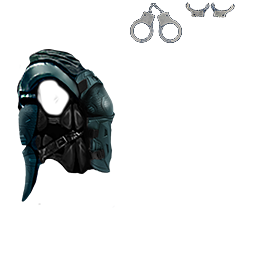
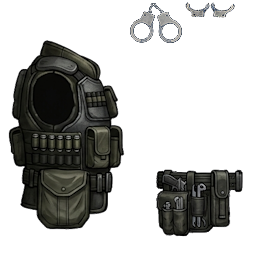
111.1 1. Changed oxygen candle check hint from less than 200 to less than 100 2. Doubled oxygen candle consumption 3. Havled control rod consumption 4. Updated repaire updatepostfix to fix electric check inconsistance between repair and during the repair. 5. Updated trashcan to allow stealing 6. Cha

Changed region(s): [[0.0312, 0.1562, 0.5, 0.9062], [0.5938, 0.6562, 0.9688, 0.9375]]

diff --git a/CSharp/Shared/Repairable_harmo.cs b/CSharp/Shared/Repairable_harmo.cs
@@ -130,18 +130,37 @@ namespace BarotraumaDieHard
         [HarmonyPostfix]
         public static void UpdatePostfix(float deltaTime, Camera cam, Repairable __instance)
         {
-            if (__instance.CurrentFixer == null) return;
-            if (__instance.item.GetComponent<Powered>() is Powered powered) 
+            // 如果当前没有人正在维修，或者设备根本没有通电危险，直接跳过
+            if (__instance.CurrentFixer == null || !IsDeviceElectrified(__instance)) return;
+
+            Character fixer = __instance.CurrentFixer;
+
+            // 1. 施加惩罚效果（这里由于是在 Update 触发，原版一般在服务器执行）
+            __instance.ApplyStatusEffects(ActionType.OnFailure, 1.0f, fixer);
+
+            // 2. 关键：如果是服务器，必须创建网络事件同步这个惩罚特效，否则联机会出 Bug
+            if (GameMain.NetworkMember is { IsServer: true } && __instance.statusEffectLists != null && __instance.statusEffectLists.ContainsKey(ActionType.OnFailure))
             {
-                if (powered == null || powered.powerIn == null || powered.powerIn.Grid == null) // Check for devices that don't have powered component.
+                GameMain.NetworkMember.CreateEntityEvent(__instance.Item, new Item.ApplyStatusEffectEventData(ActionType.OnFailure, __instance, fixer));
+            }
+
+            
+
+            #if CLIENT
+            // 4. 客户端提示
+            BarotraumaDieHard.CustomHintManager.DisplayHint("electricalrepair".ToIdentifier());
+            #endif
+
+            // 5. 如果是 Bot 正在修理，顺便清除其 AI 目标（防止 Bot 傻傻地又秒点上去修理）
+            if (fixer.AIController is HumanAIController humanAI)
+            {
+                // 触发 Bot 说话
+                fixer.Speak(TextManager.Get("dialog.bot.safetywarning").Value, null, 0.0f, "safetywarning".ToIdentifier(), 10.0f);
+                
+                var currentObjective = humanAI.ObjectiveManager.GetCurrentObjective();
+                if (currentObjective != null)
                 {
-                    return;
-                }
-                else if (powered.powerIn.Grid.Power > 1f)
-                {
-                    
-                    __instance.ApplyStatusEffects(ActionType.OnFailure, 1.0f, __instance.CurrentFixer);
-                    return;
+                    currentObjective.Abandon = true; 
                 }
             }
         }

diff --git a/CSharp/Shared/Character_harmo.cs b/CSharp/Shared/Character_harmo.cs
@@ -26,6 +26,7 @@ using Barotrauma;
 using HarmonyLib;
 using System.Globalization;
 using System.Reflection;
+//using System.Numerics;
 
 
 namespace BarotraumaDieHard
@@ -125,7 +126,30 @@ namespace BarotraumaDieHard
 			}
 			else if (currentTemp > 323.15f)
 			{
-				__instance.CharacterHealth.ApplyAffliction(__instance.AnimController.MainLimb, AfflictionPrefab.Prefabs["burn"].Instantiate((currentTemp - 318.15f) * accumulatedTime / 4f));
+				// 1. 计算原始伤害强度
+				float rawDamage = (currentTemp - 318.15f) * accumulatedTime / 4f;
+				
+				// 2. 创建一个攻击数据对象 (AttackContext 可以根据你的 Hook 来源选择，比如 Environment)
+				// 这里使用原生的 Attack 构造函数，传入烧伤的 Prefab 关联的数据
+				var burnPrefab = AfflictionPrefab.Prefabs["burn"];
+				
+				// 创建一个临时的攻击信息对象
+				Attack attack = new Attack(
+					damage: 0, 
+					bleedingDamage: 0, 
+					burnDamage: rawDamage, // 确保触发烧伤类型的抗性
+					structureDamage: 0, 
+					itemDamage: 0);
+
+				// 3. 调用 Character 的 ApplyAttack 方法
+				// 这个方法内部会自动进行护甲（Wearable）减伤计算，并最终应用到 CharacterHealth
+				__instance.ApplyAttack(attacker: null,
+					worldPosition: __instance.WorldPosition,
+					deltaTime: deltaTime,
+					impulseDirection: Vector2.Zero,
+					attack: attack,
+					targetLimb: __instance.AnimController.MainLimb
+				);
 			}
 			else if (currentTemp > 293.15f)
 			{

diff --git a/CSharp/Shared/Reactor_harmo.cs b/CSharp/Shared/Reactor_harmo.cs
@@ -25,6 +25,9 @@ namespace BarotraumaDieHard
         public static Dictionary<int, ReactorCacheData> ReactorDataCache = new Dictionary<int, ReactorCacheData>();
         private static bool inEditor;
         private const float UPDATE_INTERVAL = 0.2f;  // 每秒更新5次
+        // === 新增配置参数 ===
+        // 控制裂变率没有控制棒时的每秒上涨速度。例如 15f 意味着从 0 上涨到 100 需要大约 6.6 秒。
+        private const float FISSION_RISE_SPEED = 5f;
 
         [HarmonyPatch("Update")]
         [HarmonyPostfix]
@@ -79,7 +82,7 @@ namespace BarotraumaDieHard
                     else if (__instance.item.InPlayerSubmarine)
                     {
                         // 正常消耗控制棒（联机模式下加个同步脏标记，确保通知到服务器/客户端）
-                        controlrod.Condition -= 0.05f * UPDATE_INTERVAL;
+                        controlrod.Condition -= 0.02f * UPDATE_INTERVAL;
                     }
                 }
                 else
@@ -89,8 +92,13 @@ namespace BarotraumaDieHard
                     {
                         // 联机环境下可以用这条，但注意别刷屏控制台
                         // DebugConsole.NewMessage($"[DieHard] 反应堆 {reactorId} 缺失控制棒！");
-                        __instance.fissionRate = 100f;
-                        __instance.Item.Condition -= 1.5f * UPDATE_INTERVAL;
+                        __instance.AutoTemp = false;
+                        __instance.TargetFissionRate = 100f;
+                        __instance.fissionRate = Microsoft.Xna.Framework.MathHelper.Min(
+                        100f, 
+                        __instance.fissionRate + (FISSION_RISE_SPEED * UPDATE_INTERVAL)
+                    );
+                        __instance.Item.Condition -= 1f * UPDATE_INTERVAL;
                     }
                 }
             }

diff --git a/CSharp/Shared/Turret_harmo.cs b/CSharp/Shared/Turret_harmo.cs
@@ -143,11 +143,6 @@ namespace BarotraumaDieHard
                             SkillSettings.Current.SkillIncreasePerSecondWhenOperatingTurret * deltaTime);
                     }
                 }
-
-                
-                    
-                
-
             }
         }
 

diff --git a/CSharp/Client/GameSesssion/GameModes/CampaignMode_harmo.cs b/CSharp/Client/GameSesssion/GameModes/CampaignMode_harmo.cs
@@ -130,7 +130,7 @@ namespace BarotraumaDieHard
         public static bool CheckOxygenCandle()
         {
             float oxygenCandle = Submarine.MainSub.GetItems(true).Where(i => i.HasTag("oxygencandle")).Sum(i => i.Condition);
-            lowOxygenCandles = oxygenCandle < 200;
+            lowOxygenCandles = oxygenCandle < 100;
             return !lowOxygenCandles;
         }
         public static bool Checkcontrolrod()

diff --git a/CSharp/Shared/oxygengenerator.cs b/CSharp/Shared/oxygengenerator.cs
@@ -338,7 +338,7 @@ namespace BarotraumaDieHard
                                 
                             }
                             activeRefillSlots++;  // Count the active refill slot
-                            oxygenCandle.Condition -= 0.1f * deltaTime; // Candle burns down gradually
+                            oxygenCandle.Condition -= 0.2f * deltaTime; // Candle burns down gradually
                         }
                     }
 